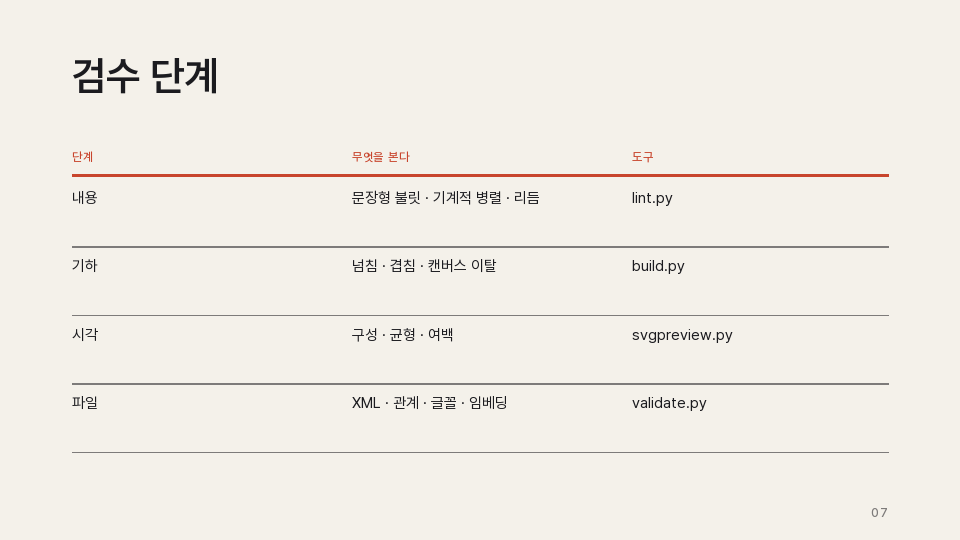
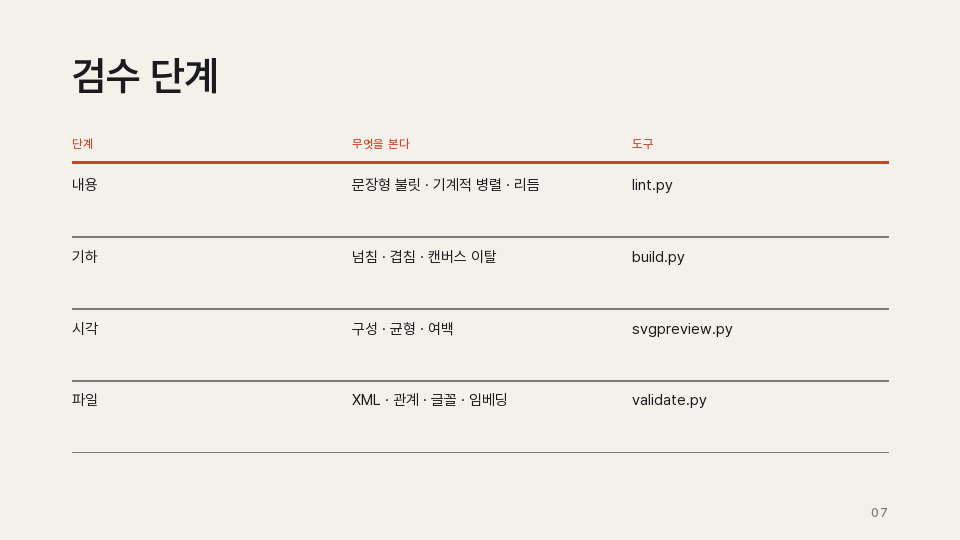
글리프 누락(두부) 검사 · 이미지 경로 해석 · 헤드 높이 연동 수정
실제 34장 강의자료를 만들며 드러난 결함들.

- lint: GLYPH 검사 추가. Pretendard 에 ⊃ ⊂ ✕ ∴ ∵ ⊙ 가 없어 PowerPoint 가
  두부(□)로 그린다. 렌더 전에는 눈치채기 어렵고 미리보기에서도 대체 글꼴로
  그려져 속기 쉬워, 폰트 cmap 과 직접 대조한다
- 이미지 상대경로를 아웃라인 파일 기준으로 해석. 작업 디렉터리 기준이면
  같은 아웃라인이 실행 위치에 따라 되거나 안 되거나 했다
- table/data 가 _head() 반환값을 따라간다. 제목이 두 줄이 되면 표 머리행과
  겹쳤다
- image_full: 판 높이를 글 분량에 맞춰 계산
- cards: 항목별 fit 지원 (스크린샷 썸네일이 cover 로 잘리던 문제)

diff --git a/scripts/build.py b/scripts/build.py
@@ -126,24 +126,25 @@ def data(d: Deck, s, m, sl):
     """숫자 3개를 똑같은 크기로 나란히 놓으면 그건 대시보드 위젯이지 슬라이드가 아니다.
     하나를 히어로로 세우고 나머지를 종속시킨다. 위계가 곧 주장이다."""
     g = d.g
-    _head(d, s, sl)
+    head_y = _head(d, s, sl)
     items = sl.get("items") or []
     if not items:
         return
     hero, subs = items[0], items[1:3]
     hw = g.w(7) if subs else g.w(10)
+    dy = max(0, head_y + 24 - 150)      # 제목이 길어지면 블록 전체를 그만큼 내린다
     hstyle = _fit(d, hero.get("value", ""), hw,
                   ["stat1", "stat2", "stat3", "stat_sub"], hero.get("unit"))
-    d.text(s, hstyle, g.margin_x, 150, hw, 190,
+    d.text(s, hstyle, g.margin_x, 150 + dy, hw, 190,
            str(hero.get("value", "")), anchor="bottom", suffix=hero.get("unit"),
            tag="stat-hero")
-    d.rule(s, g.margin_x, 358, hw, 4)
+    d.rule(s, g.margin_x, 358 + dy, hw, 4)
     if hero.get("caption"):
-        d.text(s, "small", g.margin_x, 374, hw, 76, hero["caption"], color="muted")
+        d.text(s, "small", g.margin_x, 374 + dy, hw, 76, hero["caption"], color="muted")
 
     x, w = g.x(8), g.w(4)
     for k, it in enumerate(subs):
-        top = 150 + k * 160
+        top = 150 + dy + k * 160
         d.rule(s, x, top, w, 1, color="muted")
         sstyle = _fit(d, it.get("value", ""), w, ["stat_sub", "stat_sub2", "h1"],
                       it.get("unit"), 0.45)
@@ -164,7 +165,7 @@ def quote(d: Deck, s, m, sl):
 def table(d: Deck, s, m, sl):
     """네이티브 표를 쓰지 않는다. 테마 표스타일(줄무늬 채움·테두리)이 곧 AI 티다."""
     g = d.g
-    _head(d, s, sl)
+    head_y = _head(d, s, sl)          # 제목이 두 줄이면 머리행이 밀려야 한다
     heads, rows = sl.get("headers") or [], sl.get("rows") or []
     lim = d.limits["table_rows"]
     if len(rows) > lim:
@@ -173,10 +174,11 @@ def table(d: Deck, s, m, sl):
     n = max(1, len(heads) or (len(rows[0]) if rows else 1))
     cw = (g.content_w - (n - 1) * 24) / n
     xs = [g.margin_x + i * (cw + 24) for i in range(n)]
+    hy = head_y + 30
     for i, h in enumerate(heads[:n]):
-        d.text(s, "label", xs[i], 150, cw, 16, str(h), color="accent")
-    d.rule(s, g.margin_x, 174, g.content_w, 2)
-    y0 = 186
+        d.text(s, "label", xs[i], hy, cw, 16, str(h), color="accent")
+    d.rule(s, g.margin_x, hy + 24, g.content_w, 2)
+    y0 = hy + 36
     rh = min(110, max(30, (g.bottom - 24 - y0) / max(1, len(rows))))  # 행수에 따라 숨통을 조절
     for r_i, r in enumerate(rows):
         y = y0 + r_i * rh
@@ -348,6 +350,19 @@ def build(outline_path, out_path=None, spec_path=None, embed=False):
         o = yaml.safe_load(f)
     spec = load_spec(spec_path)
     m = o.get("meta") or {}
+
+    # 이미지 경로는 아웃라인 파일 기준으로 푼다. 작업 디렉터리 기준이면
+    # 같은 아웃라인이 어디서 실행하느냐에 따라 되거나 안 되거나 한다.
+    base = os.path.dirname(os.path.abspath(outline_path))
+    def _abs(v):
+        v = os.path.expanduser(str(v))
+        return v if os.path.isabs(v) else os.path.normpath(os.path.join(base, v))
+    for sl in (o.get("slides") or []):
+        if sl.get("image"):
+            sl["image"] = _abs(sl["image"])
+        for it in (sl.get("items") or []):
+            if it.get("image"):
+                it["image"] = _abs(it["image"])
     d = Deck(spec, palette=m.get("palette"), density=m.get("density"))
 
     slides = o.get("slides") or []

diff --git a/scripts/lint.py b/scripts/lint.py
@@ -40,9 +40,32 @@ def texts_of(sl) -> list[str]:
     return out
 
 
+def glyph_gaps(spec, texts):
+    """폰트에 없는 문자를 찾는다. PowerPoint는 이걸 두부(□)로 그린다.
+
+    Pretendard에는 ⊃ ⊂ ✕ ∴ ∵ ⊙ 가 없다 — 수학·논리 기호를 쓸 때 반드시 걸린다.
+    렌더해 보기 전에는 눈치채기 어렵고, 미리보기에서도 대체 글꼴로 그려져 속기 쉽다.
+    """
+    import metrics as _m
+    tbls = _m.load() or {}
+    if not tbls:
+        return {}
+    gaps = {}
+    for t in texts:
+        for ch in str(t):
+            if ch.isspace() or "가" <= ch <= "힣" or ord(ch) < 0x80:
+                continue
+            missing = [n for n, tb in tbls.items() if str(ord(ch)) not in tb["adv"]]
+            if len(missing) == len(tbls):
+                gaps.setdefault(ch, 0)
+                gaps[ch] += 1
+    return gaps
+
+
 def main(path, spec_path=None):
     spec = load_spec(spec_path)
     o = yaml.safe_load(open(path, encoding="utf-8"))
+    base = os.path.dirname(os.path.abspath(path))
     m = o.get("meta") or {}
     slides = o.get("slides") or []
     dens = m.get("density") or spec["density"]
@@ -86,9 +109,13 @@ def main(path, spec_path=None):
 
         if lay in ("image_split", "image_full") and not sl.get("image"):
             err(i, "IMAGE", f"'{lay}' 인데 image 경로가 없다")
-        for path in ([sl.get("image")] + [it.get("image") for it in (sl.get("items") or [])]):
-            if path and not os.path.exists(os.path.expanduser(str(path))):
-                err(i, "IMAGE", f"이미지 파일이 없다: {path}")
+        for ip in ([sl.get("image")] + [it.get("image") for it in (sl.get("items") or [])]):
+            if not ip:
+                continue
+            q = os.path.expanduser(str(ip))
+            q = q if os.path.isabs(q) else os.path.join(base, q)   # 아웃라인 파일 기준
+            if not os.path.exists(q):
+                err(i, "IMAGE", f"이미지 파일이 없다: {ip}")
         if lay == "cards" and len(sl.get("items") or []) > 6:
             err(i, "DENSITY", f"카드 {len(sl['items'])}개 > 6개. 한 화면에 여섯 덩이 넘게 놓으면 아무도 안 읽는다")
         if lay == "two_col" and not sl.get("lead") and len(bl) <= 2:
@@ -131,6 +158,12 @@ def main(path, spec_path=None):
         Lt = [len(t) for t in titles]
         if len(titles) >= 4 and max(Lt) - min(Lt) <= 1:
             wrn(0, "PARALLEL", f"제목 길이가 {Lt}로 전부 같다")
+
+    gaps = glyph_gaps(spec, [t for sl in slides for t in texts_of(sl)]
+                      + [str(v) for v in m.values()])
+    for ch, cnt in sorted(gaps.items(), key=lambda kv: -kv[1]):
+        err(0, "GLYPH", f"'{ch}' (U+{ord(ch):04X}) 가 폰트에 없다 — PowerPoint가 두부(□)로 그린다. "
+                        f"{cnt}곳에서 쓰였다")
 
     # --- 출력 ---------------------------------------------------------
     print(f"ppt-deck lint — {path}  ({n} slides, density={dens})")
